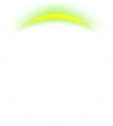
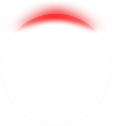
Red shield hit.

Changed region(s): [[0.1593, 0.0238, 0.8496, 0.2619]]

diff --git a/ABIMSIM/GameScene.m b/ABIMSIM/GameScene.m
@@ -960,6 +960,7 @@ CGFloat DegreesToRadians(CGFloat degrees)
                         CGFloat f = [self pointPairToBearingDegrees:p1 secondPoint:p2] - 90;
                         [firstBody.node childNodeWithName:shipShieldImpactSpriteName].zRotation = DegreesToRadians(f);
                         [[firstBody.node childNodeWithName:shipShieldImpactSpriteName] runAction:firstBody.node.userData[shipShieldImpactAnimation]];
+                        [[firstBody.node childNodeWithName:shipShieldHitSpriteName] runAction:firstBody.node.userData[shipShieldHitAnimation]];
                         if ([ABIMSIMDefaults boolForKey:kSFXSetting]) {
                             [self runAction:shieldHitSoundAction];
                         }
@@ -1048,6 +1049,7 @@ CGFloat DegreesToRadians(CGFloat degrees)
                 CGFloat f = [self pointPairToBearingDegrees:p1 secondPoint:p2] - 90;
                 [firstBody.node childNodeWithName:shipShieldImpactSpriteName].zRotation = DegreesToRadians(f);
                 [[firstBody.node childNodeWithName:shipShieldImpactSpriteName] runAction:firstBody.node.userData[shipShieldImpactAnimation]];
+                [[firstBody.node childNodeWithName:shipShieldHitSpriteName] runAction:firstBody.node.userData[shipShieldHitAnimation]];
                 if ([ABIMSIMDefaults boolForKey:kSFXSetting]) {
                     [self runAction:shieldHitSoundAction];
                 }
@@ -1110,6 +1112,10 @@ CGFloat DegreesToRadians(CGFloat degrees)
     shipShieldImage.name = shipShieldSpriteName;
     shipShieldImage.alpha = 0;
     shipShieldImage.position = CGPointMake(0, 5);
+    SKSpriteNode *shipShieldHitImage = [SKSpriteNode spriteNodeWithImageNamed:@"ShipShieldHit"];
+    shipShieldHitImage.name = shipShieldHitSpriteName;
+    shipShieldHitImage.alpha = 0;
+    shipShieldHitImage.position = CGPointMake(0, 5);
     SKSpriteNode *impactSprite = [SKSpriteNode spriteNodeWithImageNamed:@"ShipShield_Impact"];
     impactSprite.name = shipShieldImpactSpriteName;
     impactSprite.alpha = 0;
@@ -1124,6 +1130,7 @@ CGFloat DegreesToRadians(CGFloat degrees)
     [ship addChild:shipImage];
     [ship addChild:shipThruster];
     [ship addChild:shipShieldImage];
+    [ship addChild:shipShieldHitImage];
     [ship addChild:impactSprite];
     [ship addChild:explosionSprite];
 
@@ -1161,6 +1168,11 @@ CGFloat DegreesToRadians(CGFloat degrees)
     SKAction *impactSequence = [SKAction sequence:@[showImpact,fadeAway]];
     ship.userData[shipShieldImpactAnimation] = impactSequence;
     
+    SKAction *showShieldHit = [SKAction fadeAlphaTo:1 duration:0.01];
+    SKAction *fadeShieldHitAway = [SKAction fadeAlphaTo:0 duration:0.25];
+    SKAction *shieldHitSequence = [SKAction sequence:@[showShieldHit,fadeShieldHitAway]];
+    ship.userData[shipShieldHitAnimation] = shieldHitSequence;
+
     SKAction *explFadeAction = [SKAction fadeAlphaTo:1 duration:0.1];
     SKAction *explScaleAction = [SKAction scaleTo:0.75 duration:0.1];
     SKAction *explFadeOutAction = [SKAction fadeAlphaTo:0 duration:0.25];

diff --git a/ABIMSIM/PhysicsContstants.h b/ABIMSIM/PhysicsContstants.h
@@ -36,6 +36,7 @@ static NSString* explodedSpaceMine = @"explodedSpaceMine";
 static NSString* shipImageSpriteName = @"shipImageSprite";
 static NSString* shipThrusterSpriteName = @"shipThrusterSpriteName";
 static NSString* shipShieldSpriteName = @"shipShieldSprite";
+static NSString* shipShieldHitSpriteName = @"shipShieldHitSprite";
 static NSString* shipShieldImpactSpriteName = @"shipShieldImpactSprite";
 static NSString* shipExplosionSpriteName = @"shipExplosionSpriteName";
 

diff --git a/ABIMSIM/SpriteUserDataConstants.h b/ABIMSIM/SpriteUserDataConstants.h
@@ -28,6 +28,7 @@
 #define shipThrusterAnimation @"shipThrusterAnimation"
 #define shipShieldPopAnimation @"shipShieldPopAnimation"
 #define shipShieldImpactAnimation @"shipShieldImpactAnimation"
+#define shipShieldHitAnimation @"shipShieldHitAnimation"
 #define shipExplosionAnimation @"shipExplosionAnimation"
 #define shipThrusterAnimation @"shipThrusterAnimation"
 
